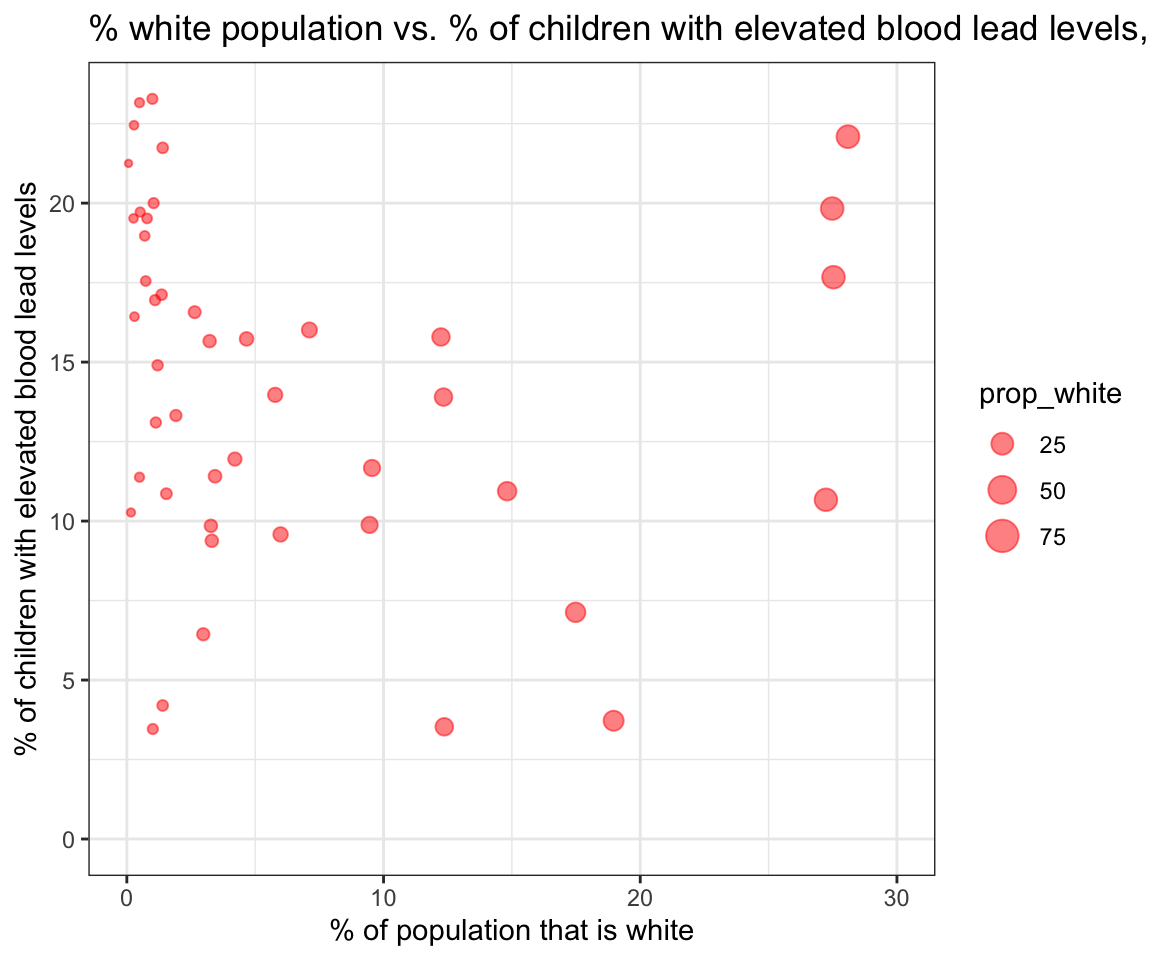
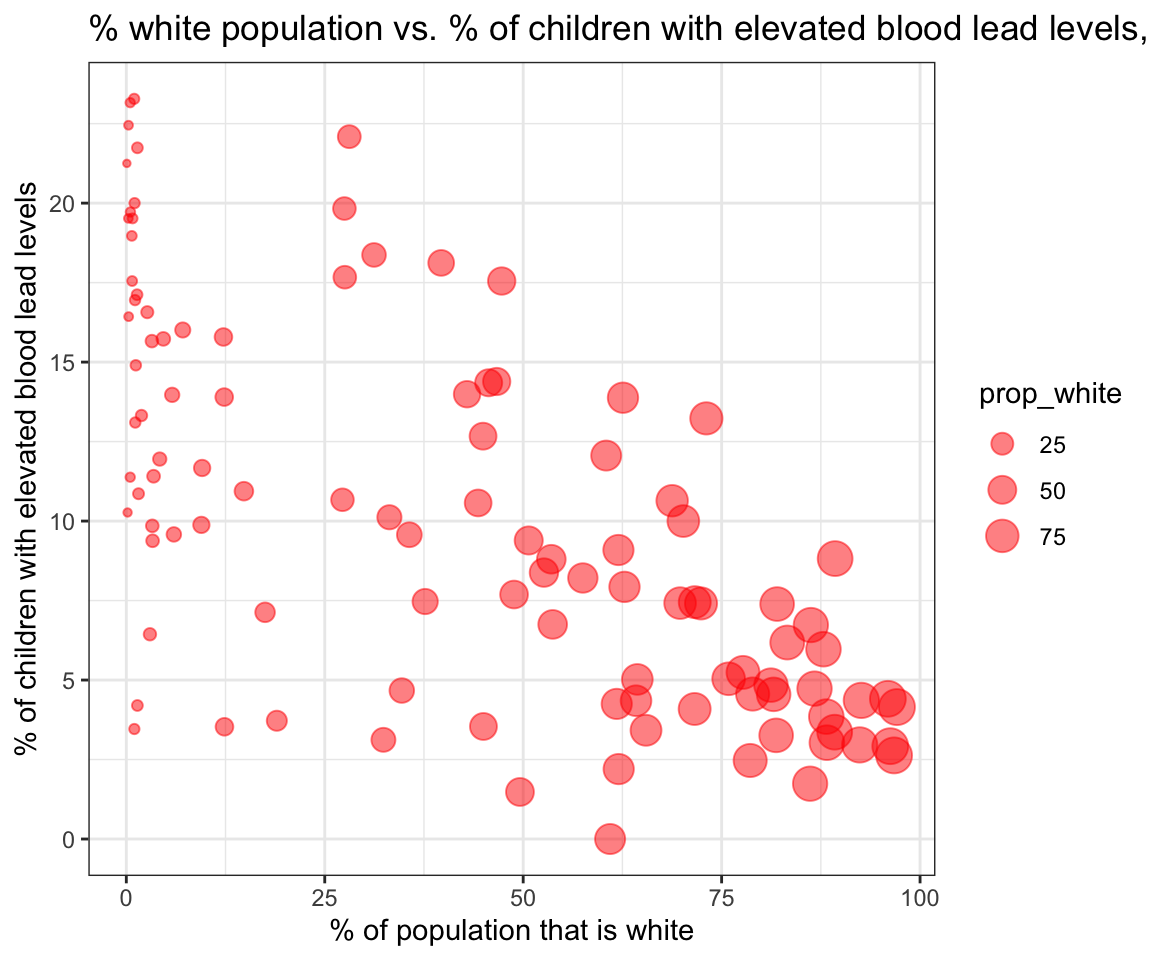
fixed scatterplot scale and trend statement

diff --git a/docs/stl_lead_inequity.html b/docs/stl_lead_inequity.html
@@ -455,18 +455,17 @@ code span.wa { color: #60a0b0; font-weight: bold; font-style: italic; } /* Warni
 <span id="cb9-4"><a href="#cb9-4" aria-hidden="true" tabindex="-1"></a>  <span class="fu">geom_point</span>(<span class="at">colour =</span> <span class="st">"red"</span>, </span>
 <span id="cb9-5"><a href="#cb9-5" aria-hidden="true" tabindex="-1"></a>             <span class="at">alpha =</span> <span class="fl">0.5</span>,</span>
 <span id="cb9-6"><a href="#cb9-6" aria-hidden="true" tabindex="-1"></a>             <span class="fu">aes</span>(<span class="at">size =</span> prop_white)) <span class="sc">+</span> <span class="co"># add size and color of points</span></span>
-<span id="cb9-7"><a href="#cb9-7" aria-hidden="true" tabindex="-1"></a>  <span class="fu">scale_x_continuous</span>(<span class="at">limits=</span><span class="fu">c</span>(<span class="dv">0</span>, <span class="dv">30</span>)) <span class="sc">+</span></span>
-<span id="cb9-8"><a href="#cb9-8" aria-hidden="true" tabindex="-1"></a>  <span class="fu">labs</span>(<span class="at">title =</span> <span class="st">"% white population vs. % of children with elevated blood lead levels, 2015"</span>, </span>
-<span id="cb9-9"><a href="#cb9-9" aria-hidden="true" tabindex="-1"></a>       <span class="at">x =</span> <span class="st">"% of population that is white"</span>, </span>
-<span id="cb9-10"><a href="#cb9-10" aria-hidden="true" tabindex="-1"></a>       <span class="at">y =</span> <span class="st">"% of children with elevated blood lead levels"</span>) <span class="sc">+</span> <span class="co">#add x and y labels and title</span></span>
-<span id="cb9-11"><a href="#cb9-11" aria-hidden="true" tabindex="-1"></a>  <span class="fu">theme_bw</span>() <span class="co">#add theme</span></span>
-<span id="cb9-12"><a href="#cb9-12" aria-hidden="true" tabindex="-1"></a></span>
-<span id="cb9-13"><a href="#cb9-13" aria-hidden="true" tabindex="-1"></a>stl_lead_plot</span></code><button title="Copy to Clipboard" class="code-copy-button"><i class="bi"></i></button></pre></div>
+<span id="cb9-7"><a href="#cb9-7" aria-hidden="true" tabindex="-1"></a>  <span class="fu">labs</span>(<span class="at">title =</span> <span class="st">"% white population vs. % of children with elevated blood lead levels, 2015"</span>, </span>
+<span id="cb9-8"><a href="#cb9-8" aria-hidden="true" tabindex="-1"></a>       <span class="at">x =</span> <span class="st">"% of population that is white"</span>, </span>
+<span id="cb9-9"><a href="#cb9-9" aria-hidden="true" tabindex="-1"></a>       <span class="at">y =</span> <span class="st">"% of children with elevated blood lead levels"</span>) <span class="sc">+</span> <span class="co">#add x and y labels and title</span></span>
+<span id="cb9-10"><a href="#cb9-10" aria-hidden="true" tabindex="-1"></a>  <span class="fu">theme_bw</span>() <span class="co">#add theme</span></span>
+<span id="cb9-11"><a href="#cb9-11" aria-hidden="true" tabindex="-1"></a></span>
+<span id="cb9-12"><a href="#cb9-12" aria-hidden="true" tabindex="-1"></a>stl_lead_plot</span></code><button title="Copy to Clipboard" class="code-copy-button"><i class="bi"></i></button></pre></div>
 <div class="cell-output-display">
 <p><img src="stl_lead_inequity_files/figure-html/unnamed-chunk-5-1.png" class="img-fluid" width="576"></p>
 </div>
 </div>
-<p>Populations with a moderate percent of white people had lower percents of children with elevated blood lead levels versus especially lower percents of white people but also somewhat higher percentages of white people.</p>
+<p>Populations with a higher percent of white people had lower percents of children with elevated blood lead levels.</p>
 <div class="cell">
 <div class="sourceCode cell-code" id="cb10"><pre class="sourceCode r code-with-copy"><code class="sourceCode r"><span id="cb10-1"><a href="#cb10-1" aria-hidden="true" tabindex="-1"></a><span class="fu">ggsave</span>(<span class="at">plot =</span> stl_lead_plot,</span>
 <span id="cb10-2"><a href="#cb10-2" aria-hidden="true" tabindex="-1"></a>       here<span class="sc">::</span><span class="fu">here</span>(<span class="st">"figs"</span>, <span class="st">"stl_lead_plot.png"</span>),</span>
